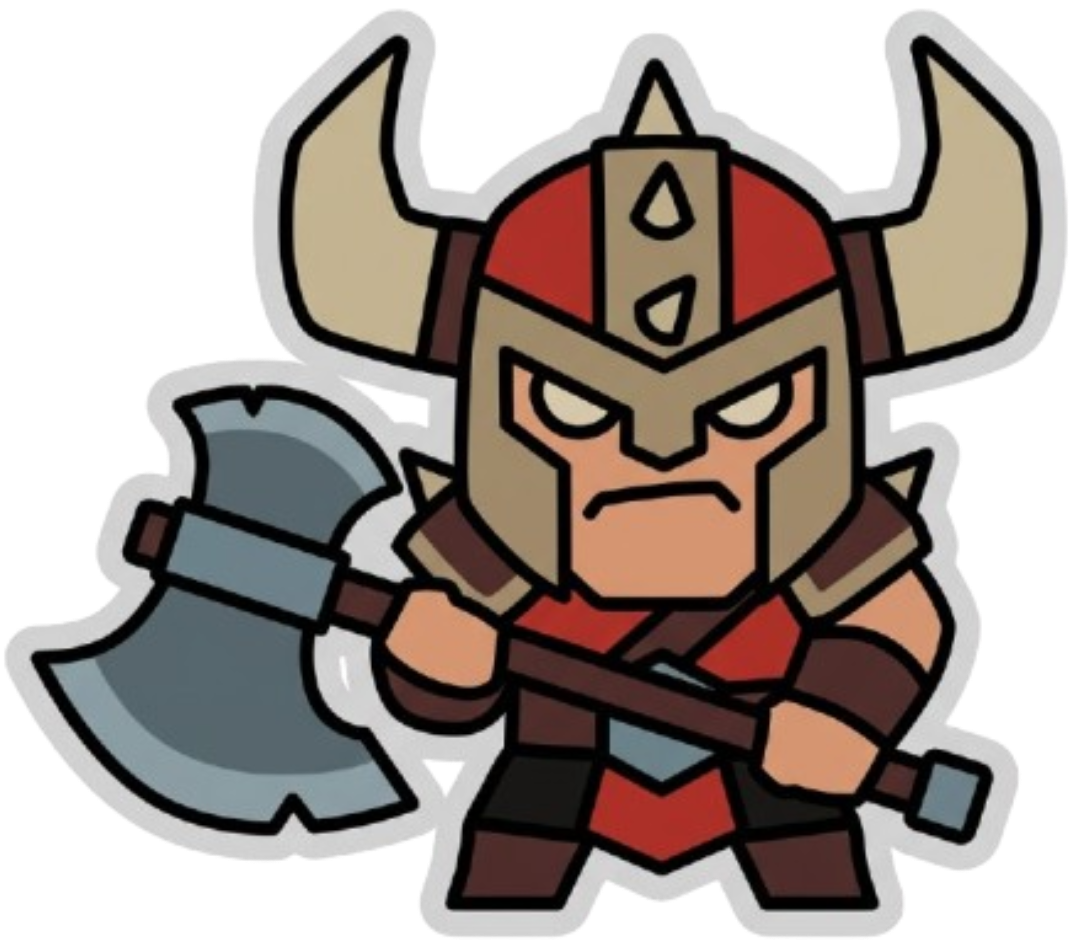
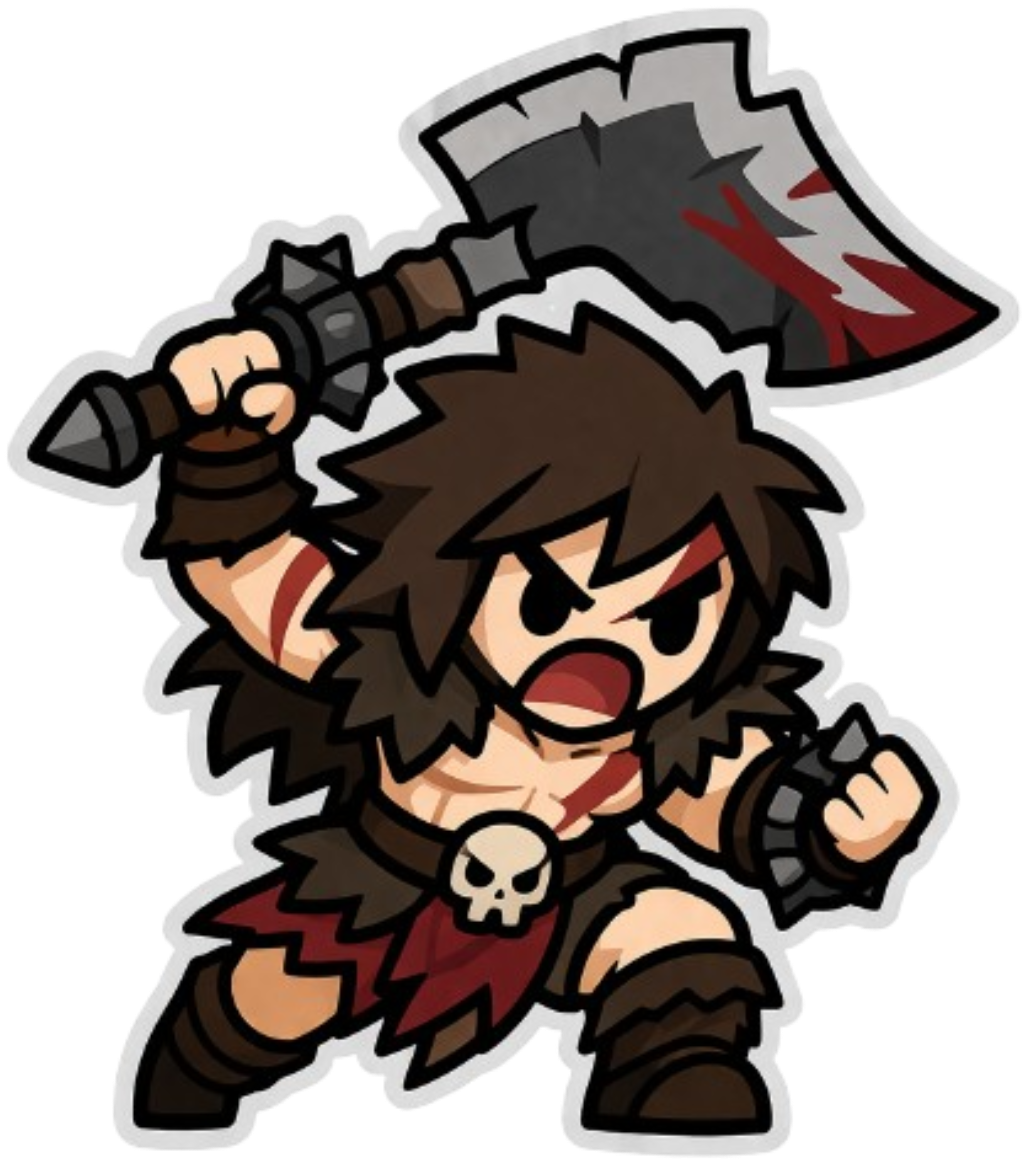
feat(classes): add custom artwork for Berserker, Cleric, Rogue, and Escape Artist

diff --git a/game.js b/game.js
@@ -605,7 +605,7 @@ const CLASS_DEFS = [
     passBadges: [{ label: '1.5× Hungry', cls: 'neg' }, { label: 'Rage Mode', cls: 'pos' }, { label: '⚡ Enrage/floor', cls: 'pos' }]
   },
   {
-    id: 'escapeartist', name: 'Escape Artist', icon: '💨',
+    id: 'escapeartist', name: 'Escape Artist', icon: '💨', img: 'images/escape-artist.png',
     flavor: 'Leave nothing behind but ice and regrets. Acrobatic and evasive.',
     hp: 12, attack: 2, defense: 1,
     hungerRate: 1, dodgeBonus: 0.20, critChance: 0.15,
@@ -629,7 +629,7 @@ const CLASS_DEFS = [
   {
     id: 'rogue',
     name: 'Rogue',
-    icon: '🥷',
+    icon: '🥷', img: 'images/rogue.png',
     flavor: 'Fragile but precise. Evades blows and lands deadly strikes.',
     hp: 10, attack: 3, defense: 1,
     hungerRate: 1, dodgeBonus: 0.15, critChance: 0.20,
@@ -641,7 +641,7 @@ const CLASS_DEFS = [
   {
     id: 'cleric',
     name: 'Cleric',
-    icon: '⛪',
+    icon: '⛪', img: 'images/cleric.png',
     flavor: 'Holy warrior. Undead fear the faithful. Heals through devotion.',
     hp: 18, attack: 2, defense: 1,
     hungerRate: 1, dodgeBonus: 0, critChance: 0.10,